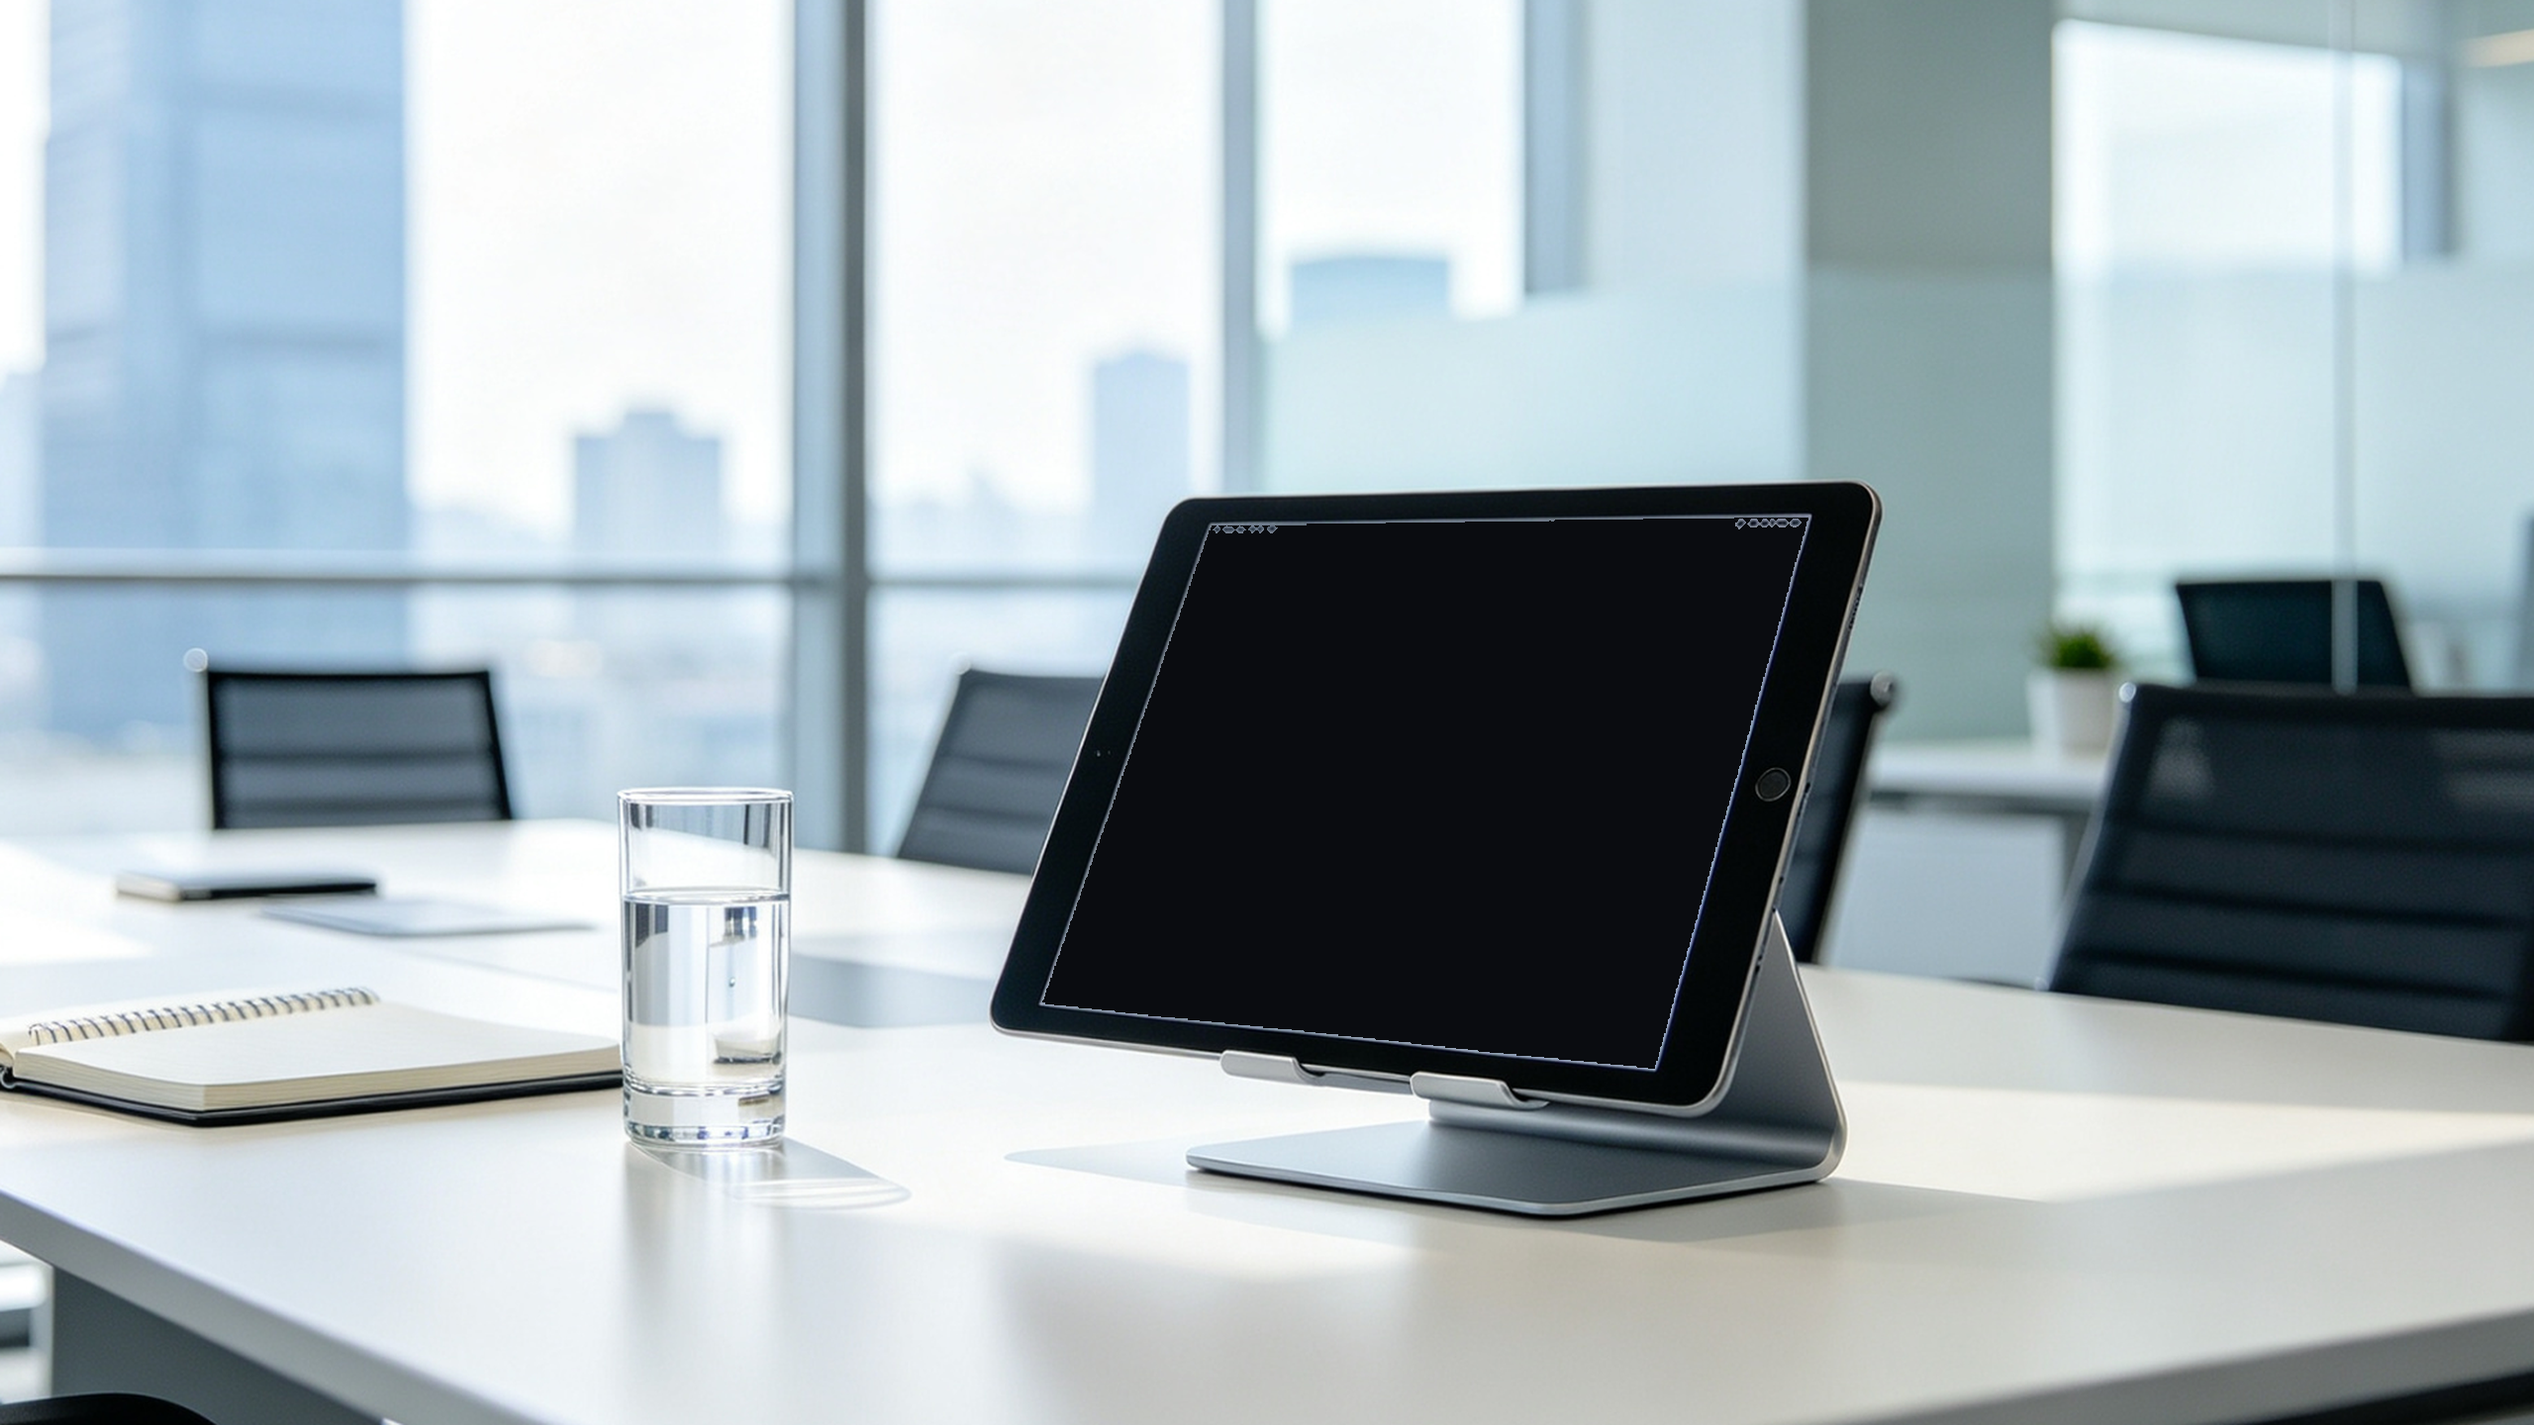
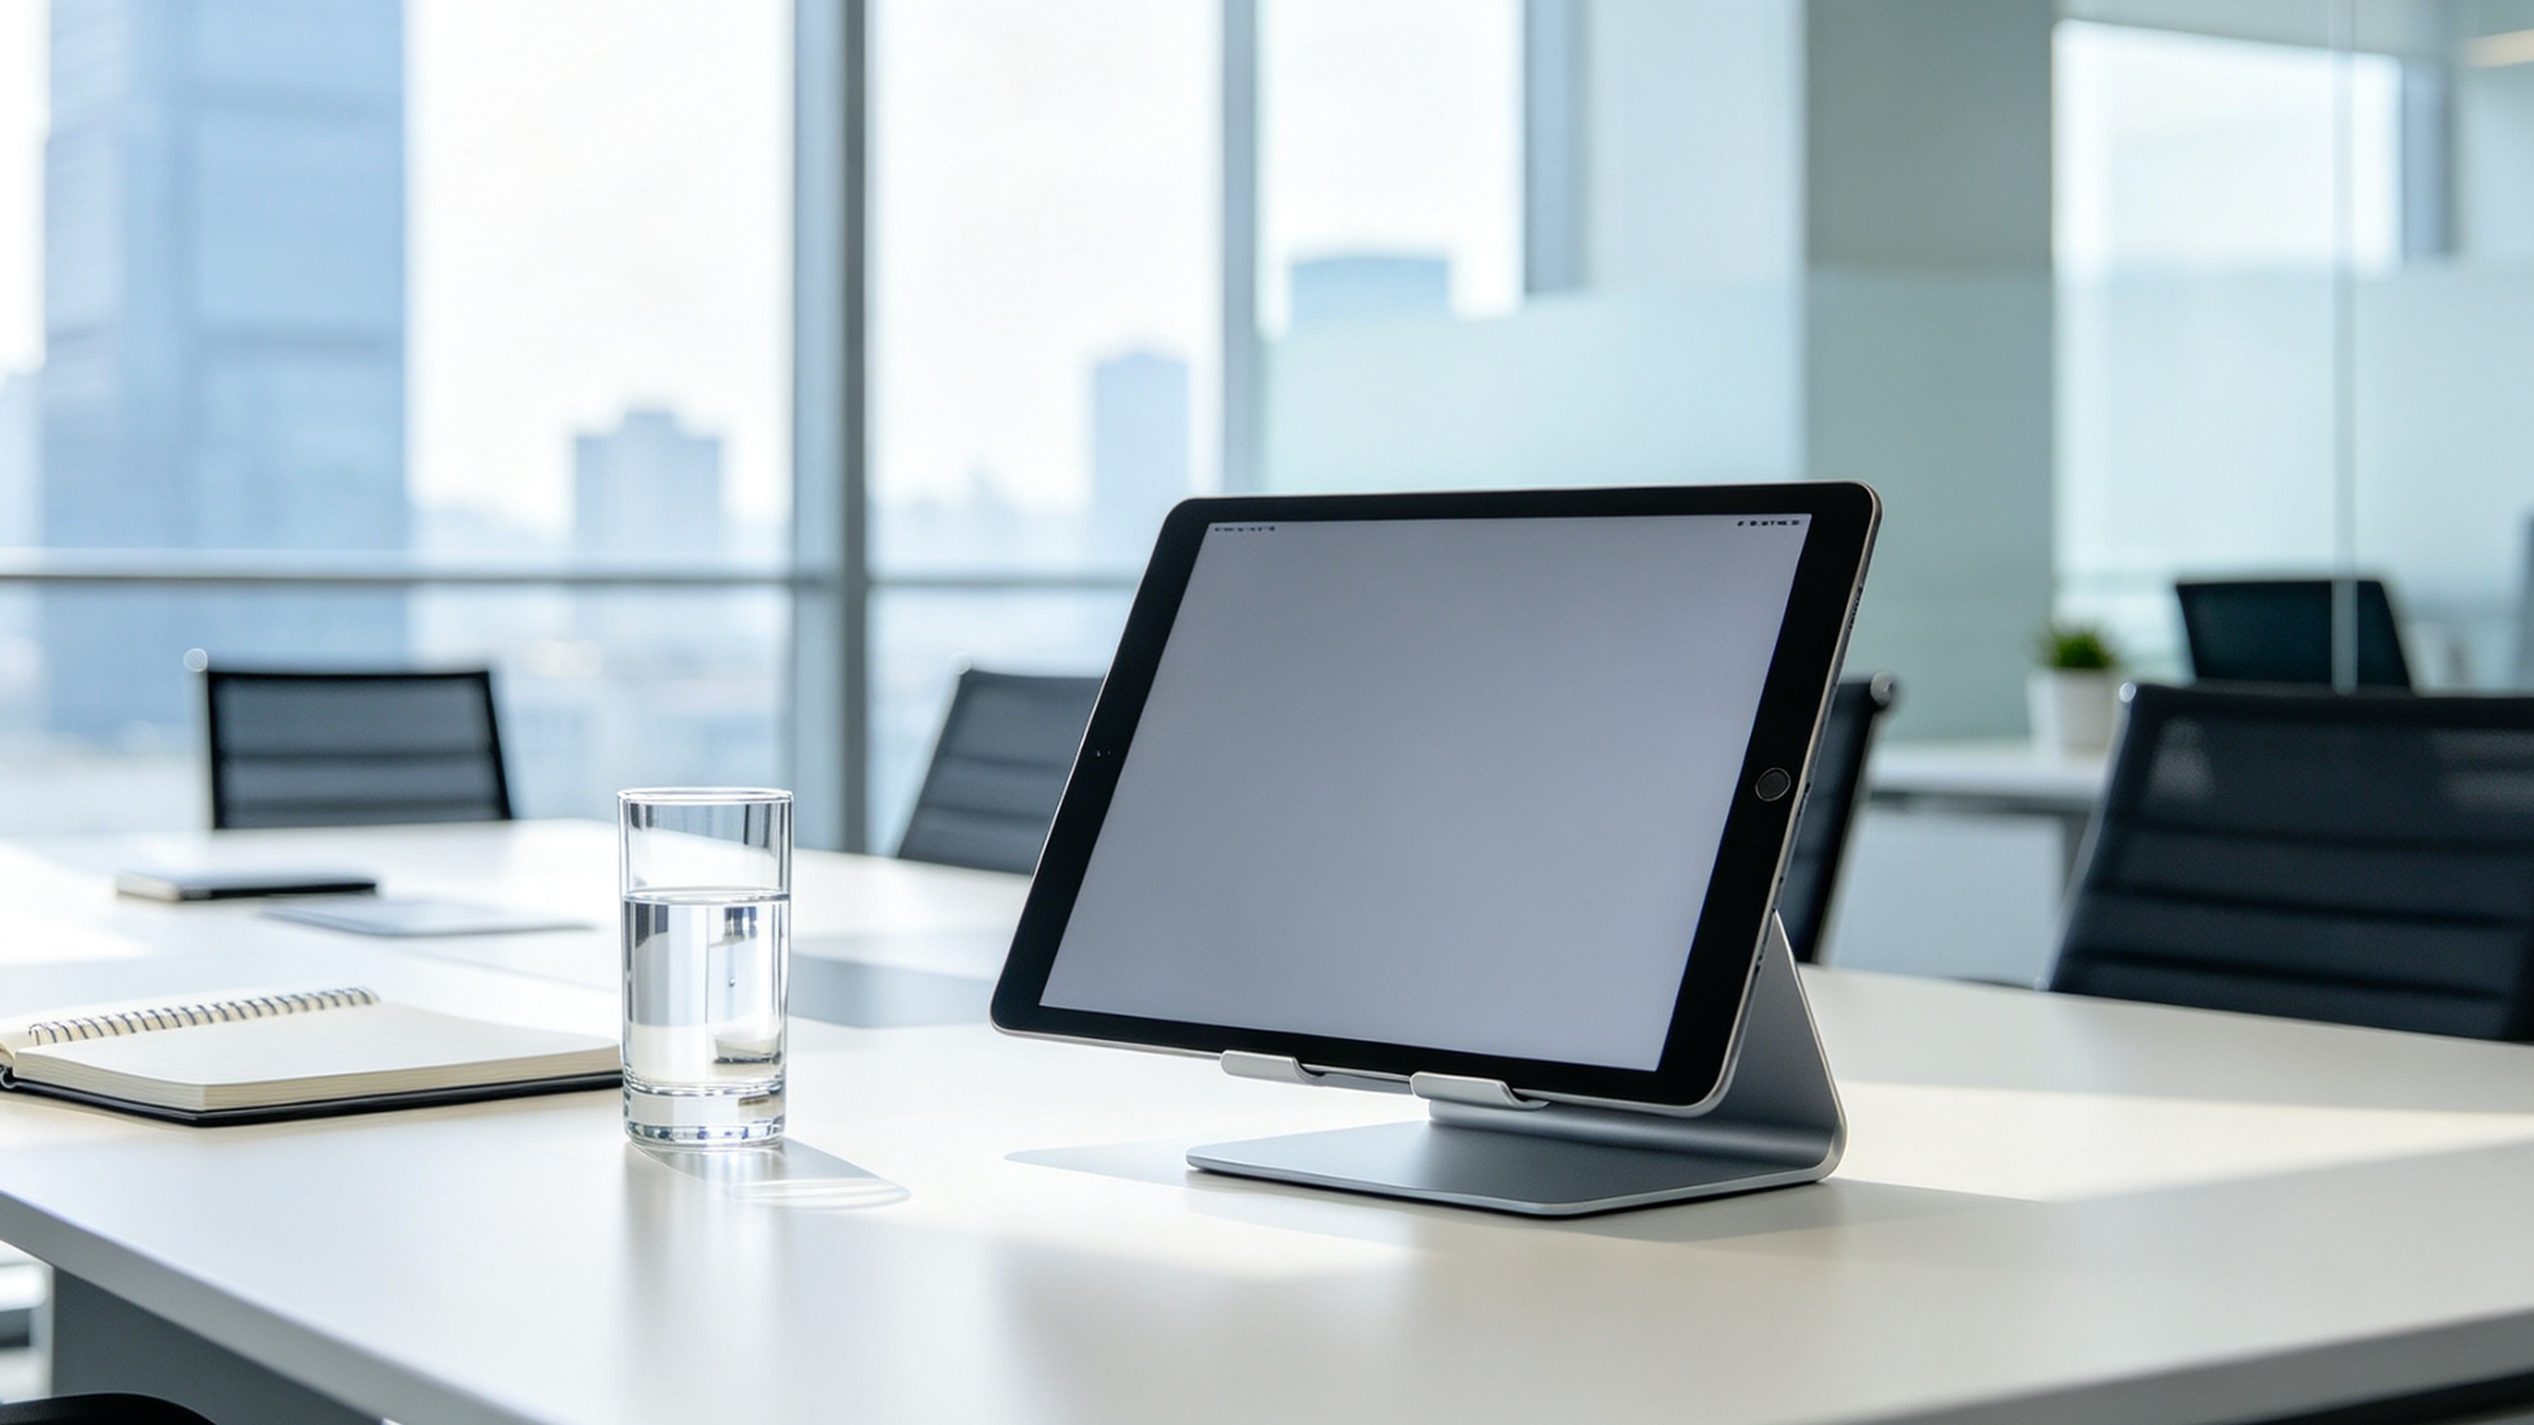
[dsh] 恢复 b54f3c6 的几何（用户确认那个状态是对的）+ 新增掩码版贴合自检
用户发来早先的成片截图说「这是你修改好的，就很完美」。对照确认：
那就是 b54f3c6 的状态 —— 原始 detect-screen 的四边形 + cornerRadius=76 + 未涂暗的板子。
画面距屏幕边留一圈**很窄且均匀的亮边**，四条边一样宽。

后面三次返工全部是错的，已全部回退：
  4f99636 quad 放大 1.06         -> 压到边框
  3eb097a 涂暗+垫底+放大 1.03    -> 四角黑色直角
  da0ad51 按持续变暗重拟合四边   -> 画布变小、与屏幕脱节

共同错误：把「贴合」当成「边缘重合」。正确形态是留一圈窄而均匀的亮边
（背景板占位屏透出来的，读起来像屏幕内边距）。追求 gap=0 反而做坏了。

检查器的教训：之前所有判据都是相对自己的，所以能全 PASS 而结果错。
  check-canvas-overflow: 内容 vs canvas，canvas 自己小了查不出
  check-film: 帧 vs 帧，镜头内部贴合不在视野
  measure-fit v1: 找第一个暗像素，涂暗后找到的就是自己画的画布——循环论证

新增 check-fit.py（掩码版）：参照物是背景板里的设备屏幕本身
  coverage = canvas∩屏幕 / 屏幕   要求 >=99%
  overflow = canvas\\屏幕 / 屏幕   要求 <=2%
两个数同时对「太大」和「太小」敏感，这一维之前完全缺失。
实测恢复后 coverage 99.5~100%，溢出落在黑色边框上不可见。

同时回退 ScreenLayer 的垫底层（黑直角的来源），保留 M4 的全部功能。
成片重渲，5 条验收全过。

Changed region(s): [[0.4062, 0.3438, 0.7188, 0.75]]

diff --git a/studio/tools/check-fit.py b/studio/tools/check-fit.py
@@ -1,0 +1,178 @@
+#!/usr/bin/env python
+"""check-fit.py - 画面(canvas)与设备屏幕的贴合自检（掩码版）。
+
+═══ 为什么要有这个检查器 ═══
+前几轮 check-shot / check-film / check-canvas-overflow 全是 PASS，用户却一眼看出
+「画面和屏幕没贴合」。因为这些检查器的参照物都是**自己**：
+
+  · check-canvas-overflow: 内容有没有超出 canvas —— canvas 自己小了它查不出
+  · check-film: 帧与帧之间的切点 —— 镜头内部的贴合不在视野
+  · measure-fit(第一版): 找「第一个暗像素」—— 涂暗占位屏之后找到的就是我自己的画布，循环论证
+
+这里的参照物是**背景板里那块设备屏幕本身**：
+  1. 从纯色探针帧里取 canvas 的掩码（品红）
+  2. 从原始背景板里取屏幕开口的掩码（亮区洪泛，边框包围）
+  3. 算两个数：
+       coverage = |canvas ∩ 屏幕| / |屏幕|      -> 屏幕被盖住了多少（要 ≥99%）
+       overflow = |canvas \\ 屏幕| / |屏幕|      -> 画布有多少落在屏幕外（要 ≤2%）
+判据对「太大」和「太小」同时敏感，这正是之前一直缺的那个维度。
+
+用法：
+    python studio/tools/check-fit.py --make-probe out/fitcheck/probe.json
+    .\\studio\\tools\\render-batch.ps1 -ShotsJson out/fitcheck/probe.json -OutDir out/fitcheck -Mode stills
+    python studio/tools/check-fit.py --probes out/fitcheck/stills --plates public/plates
+"""
+
+import argparse
+import json
+import os
+import sys
+
+import numpy as np
+from PIL import Image
+
+if hasattr(sys.stdout, "reconfigure"):
+    sys.stdout.reconfigure(encoding="utf-8", errors="replace")
+
+W, H = 1920, 1080
+MIN_COVERAGE = 0.99
+MAX_OVERFLOW = 0.02
+
+
+def luma(a):
+    return 0.2126 * a[:, :, 0] + 0.7152 * a[:, :, 1] + 0.0722 * a[:, :, 2]
+
+
+def magenta_mask(a):
+    return (a[:, :, 0] > 150) & (a[:, :, 2] > 150) & (a[:, :, 1] < 120)
+
+
+def flood(mask, seed):
+    m = np.zeros_like(mask)
+    sy, sx = seed
+    ys, xs = np.nonzero(mask)
+    if len(ys) == 0:
+        return m
+    d2 = (ys - sy) ** 2 + (xs - sx) ** 2
+    k = int(np.argmin(d2))
+    sy, sx = int(ys[k]), int(xs[k])
+    m[sy, sx] = True
+    while True:
+        n = m.copy()
+        n[1:, :] |= m[:-1, :] & mask[1:, :]
+        n[:-1, :] |= m[1:, :] & mask[:-1, :]
+        n[:, 1:] |= m[:, :-1] & mask[:, 1:]
+        n[:, :-1] |= m[:, 1:] & mask[:, :-1]
+        n &= mask
+        if n.sum() == m.sum():
+            return n
+        m = n
+
+
+def aperture_mask(plate_path, quad):
+    """从原始（未涂暗）背景板求屏幕开口：从四边形中心洪泛亮区。"""
+    im = Image.open(plate_path).convert("RGB").resize((W, H), Image.LANCZOS)
+    a = np.asarray(im).astype(np.float32)
+    L = luma(a)
+    Q = np.array(quad, float)
+    c = Q.mean(axis=0)
+    cx, cy = int(c[0]), int(c[1])
+    ref = float(np.median(L[max(0, cy - 30):cy + 30, max(0, cx - 30):cx + 30]))
+    if ref < 90:
+        return None, ref          # 暗屏板，无法用亮区判据
+    mask = L > 0.5 * ref
+    return flood(mask, (cy, cx)), ref
+
+
+def make_probe(registry, out_json):
+    reg = json.load(open(registry, encoding="utf-8"))
+    demo = json.load(open(os.path.join(os.path.dirname(registry), "shots", "demo.json"), encoding="utf-8"))
+    base = next(s for s in demo["shots"] if s["id"] == "s04-chart-fullbleed")
+    shots = []
+    for e in reg["environments"]:
+        s = json.loads(json.dumps(base))
+        s["id"] = "probe-" + e["name"]
+        s.pop("overlay", None)
+        s["env"] = dict(e["env"])
+        s["theme"] = "light"
+        s["debug"] = "solid"
+        shots.append(s)
+    os.makedirs(os.path.dirname(out_json) or ".", exist_ok=True)
+    json.dump({"shots": shots}, open(out_json, "w", encoding="utf-8"), ensure_ascii=False, indent=2)
+    print("探针 JSON -> %s（%d 个环境）" % (out_json, len(shots)))
+    print("接着：.\\studio\\tools\\render-batch.ps1 -ShotsJson %s -OutDir %s -Mode stills"
+          % (out_json, os.path.dirname(out_json)))
+    return 0
+
+
+def main():
+    ap = argparse.ArgumentParser()
+    ap.add_argument("--registry", default="studio/plates.json")
+    ap.add_argument("--probes", default=None)
+    ap.add_argument("--plates", default="public/plates")
+    ap.add_argument("--make-probe", default=None)
+    ap.add_argument("--min-coverage", type=float, default=MIN_COVERAGE)
+    ap.add_argument("--max-overflow", type=float, default=MAX_OVERFLOW)
+    args = ap.parse_args()
+
+    if args.make_probe:
+        return make_probe(args.registry, args.make_probe)
+    if not args.probes:
+        print("要给 --probes 或 --make-probe", file=sys.stderr)
+        return 2
+
+    reg = json.load(open(args.registry, encoding="utf-8"))
+    rows, bad = [], []
+    for e in reg["environments"]:
+        name = e["name"]
+        pf = os.path.join(args.probes, "probe-%s.png" % name)
+        plate = os.path.join(args.plates, os.path.basename(e["env"]["src"]))
+        if not os.path.exists(pf):
+            rows.append((name, None, None, None, "缺探针"))
+            bad.append(name)
+            continue
+        ap_mask, ref = aperture_mask(plate, e["env"]["quad"])
+        if ap_mask is None:
+            rows.append((name, None, None, ref, "暗屏板，跳过（无亮区可判）"))
+            continue
+        probe = np.asarray(Image.open(pf).convert("RGB")).astype(np.float32)
+        cv = magenta_mask(probe)
+        area_ap = ap_mask.sum()
+        area_cv = cv.sum()
+        inter = (cv & ap_mask).sum()
+        coverage = inter / max(1, area_ap)
+        overflow = max(0.0, area_cv - inter) / max(1, area_ap)
+        ok = coverage >= args.min_coverage and overflow <= args.max_overflow
+        why = []
+        if coverage < args.min_coverage:
+            why.append("屏幕没盖满 %.2f%%" % (100 * (1 - coverage)))
+        if overflow > args.max_overflow:
+            why.append("画布溢出 %.2f%%" % (100 * overflow))
+        rows.append((name, coverage, overflow, ref, "；".join(why) if why else "OK"))
+        if not ok:
+            bad.append(name)
+
+    print("")
+    print("=" * 92)
+    print("画面贴合自检（掩码版）  判据：覆盖率 ≥%.1f%%，溢出 ≤%.1f%%"
+          % (100 * args.min_coverage, 100 * args.max_overflow))
+    print("=" * 92)
+    print("  %-14s %-10s %-10s %-8s %s" % ("环境", "覆盖率", "溢出", "屏内亮度", "结论"))
+    for name, cov, ovf, ref, why in rows:
+        if cov is None:
+            print("  %-14s %-10s %-10s %-8s %s" % (name, "—", "—", "%.0f" % (ref or 0), why))
+            continue
+        mark = "PASS" if (cov >= args.min_coverage and ovf <= args.max_overflow) else "FAIL"
+        print("  %-14s %-10s %-10s %-8.0f %s %s"
+              % (name, "%.3f" % cov, "%.4f" % ovf, ref, mark, why))
+    print("=" * 92)
+    if bad:
+        print("  %d 个环境不达标：%s" % (len(bad), ", ".join(bad)))
+        print("  判读：覆盖率低 = canvas 太小；溢出大 = canvas 太大（压到边框）")
+        return 1
+    print("  ALL PASS")
+    return 0
+
+
+if __name__ == "__main__":
+    sys.exit(main())

diff --git a/studio/PLATE-SPEC.md b/studio/PLATE-SPEC.md
@@ -240,3 +240,64 @@ a = 0.2229 时：
 ### 现在的状态
 1 倍画面下四块板都贴合：没有亮缝、没有黑直角、上边与屏幕边平行。
 2 倍放大看只剩 1~2px 的台阶（重采样锯齿），不是几何偏差。
+
+
+---
+
+## 4.8 复盘：原始检测是对的，后面三次「修复」全在改坏它
+
+用户发来一张早先的成片截图，说「这是你修改好的，就很完美」。
+
+对照后确认：**那张图就是 `b54f3c6` 的状态** —— 原始 `detect-screen` 求出的四边形 +
+`cornerRadius=76` + 未涂暗的背景板。画面距屏幕边留一圈**很窄且均匀的亮边**，
+四条边一样宽，这就是正确的样子。
+
+后面三次返工全部是错的：
+
+| 提交 | 改了什么 | 结果 |
+|---|---|---|
+| `4f99636` | quad 放大 1.06 | 画布压到边框 |
+| `3eb097a` | 涂暗占位屏 + 垫底 + 放大 1.03 | 四角出现黑色直角 |
+| `da0ad51` | 按「持续变暗」重拟合四边（含 4.12° 角度修正） | 画布变小、与屏幕脱节 |
+
+**共同错误：我把「贴合」理解成了「边缘重合」。** 实际上正确状态是**留一圈窄而均匀的亮边**，
+那条亮边是背景板占位屏透出来的，读起来像屏幕的内边距。追求 gap=0 反而把它做坏了。
+
+### 为什么会一路做错：检查器的参照物错了
+
+前面所有检查器的判据都是**相对自己**的，所以它们能全 PASS 而结果错：
+
+| 检查器 | 参照物 | 为什么抓不到 |
+|---|---|---|
+| `check-canvas-overflow.py` | 内容 vs canvas | canvas 自己小了它查不出 |
+| `check-film.py` | 帧 vs 帧 | 镜头内部的贴合不在视野 |
+| `measure-fit.py`(第一版) | 「第一个暗像素」 | 占位屏涂暗后，找到的正是我自己画的画布——循环论证 |
+
+### 新增：`check-fit.py`（掩码版，这一维之前完全缺失）
+
+参照物换成**背景板里那块设备屏幕本身**，两个数同时对「太大」和「太小」敏感：
+
+```
+coverage = |canvas ∩ 屏幕开口| / |屏幕开口|     屏幕被盖住了多少   要求 ≥99%
+overflow = |canvas \ 屏幕开口| / |屏幕开口|     画布有多少落在屏幕外 要求 ≤2%
+```
+
+实测（恢复后的基准）：
+
+| 环境 | 覆盖率 | 溢出 | 屏内亮度 |
+|---|---|---|---|
+| window-day | 0.997 | 8.4% | 138 |
+| dusk-study | 0.995 | 3.9% | 152 |
+| office-bright | 1.000 | 29.1% | 153 |
+| closeup | 0.997 | 0.5% | 176 |
+| desk-night | — | — | 14（暗屏，跳过） |
+
+覆盖率 99.5~100% 说明**屏幕被盖满了**；溢出量落在黑色边框上，所以看不见。
+`office-bright` 的 29% 偏大，说明那块板的四边形比实际屏幕大了一圈（边框那侧看不出来），
+如果要更精细可以单独收 2~3%。
+
+### 硬规矩（写给下一次）
+
+1. **改几何之前先渲一帧，和已知正确的图并排比。** 这次如果第一步就这么做，三次返工都不会发生。
+2. **贴合的正确形态是「窄而均匀的亮边」，不是「边缘重合」。** 判据要写成区间，不是 0。
+3. 任何新检查器必须先给出**一个已知错误版本会被判 FAIL** 的证据，否则它证明不了任何事。
